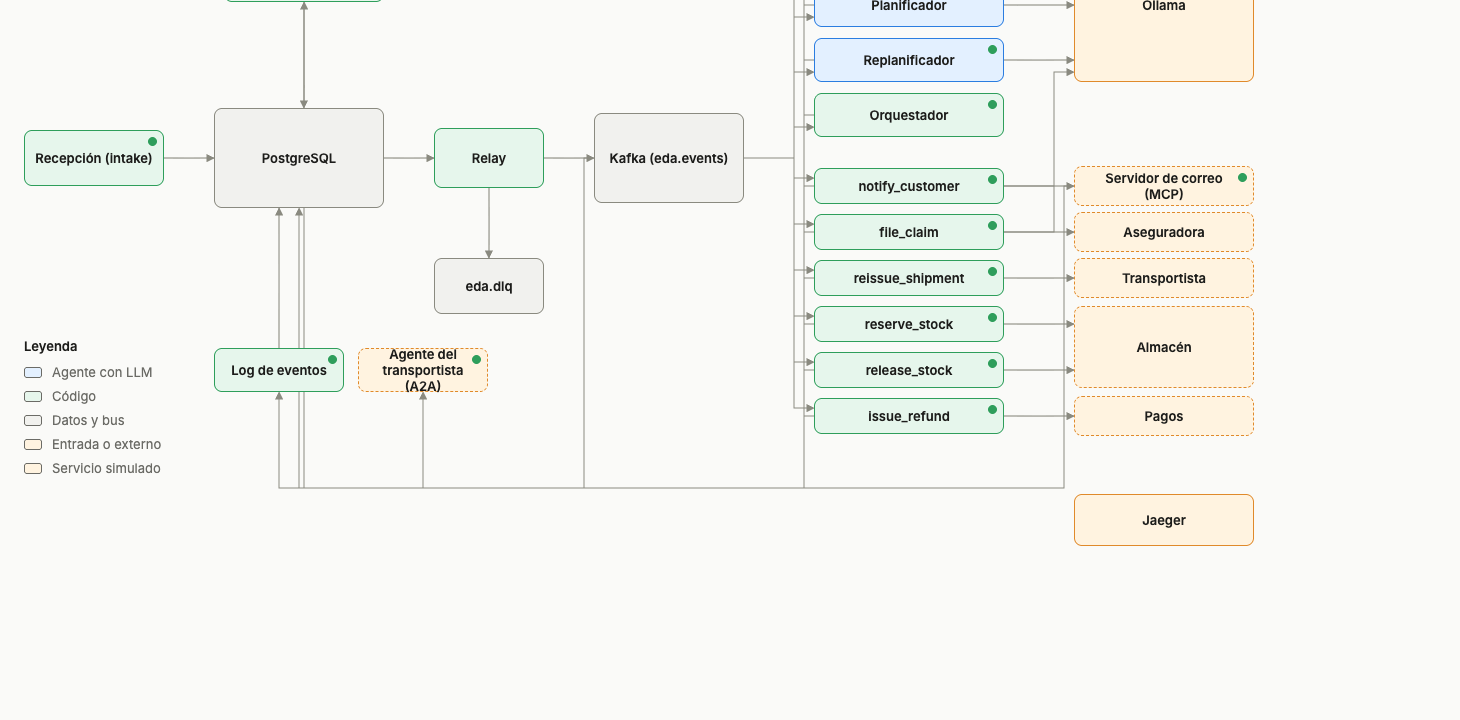
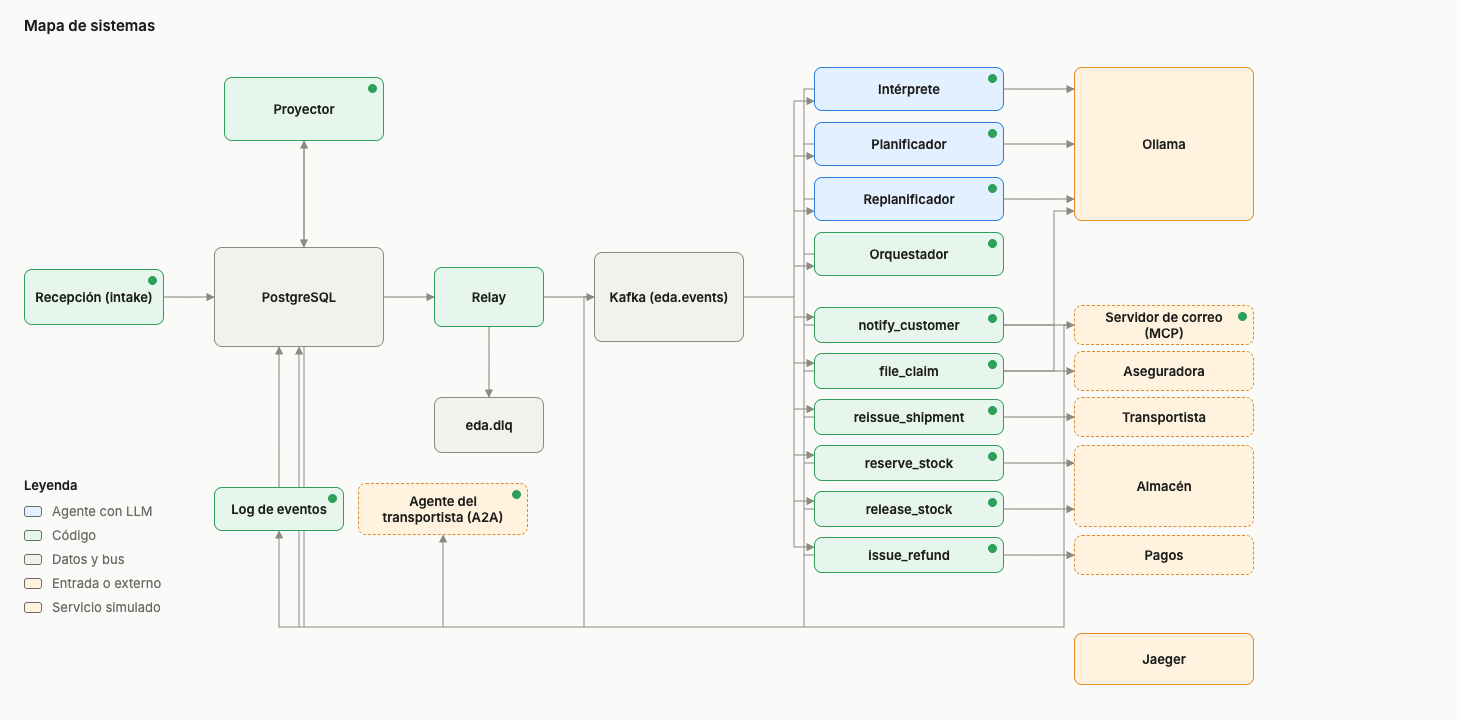
fix(web): fit the A2A carrier agent label inside its map node
The carrier agent had no position in the map layout and fell into a 130x44 fallback slot, where its label wrapped to three lines and overflowed. Give it its own 170x52 box and refresh the manual's v2 map screenshot.

diff --git a/web/src/mapLayout.test.ts b/web/src/mapLayout.test.ts
@@ -1,0 +1,18 @@
+import { describe, expect, it } from "vitest";
+import { layoutNodes, POSITIONS } from "./mapLayout";
+
+describe("layoutNodes", () => {
+  it("gives the A2A carrier agent its own box, tall and wide enough for a two-line label", () => {
+    const boxes = layoutNodes(["event_log", "carrier_agent"]);
+    const box = boxes.get("carrier_agent");
+    expect(box).toEqual(POSITIONS["carrier_agent"]);
+    expect(box!.w).toBeGreaterThanOrEqual(170);
+    expect(box!.h).toBeGreaterThanOrEqual(52);
+  });
+
+  it("keeps placing unknown nodes in the fallback area", () => {
+    const boxes = layoutNodes(["unknown_a", "unknown_b"]);
+    expect(boxes.get("unknown_a")).toEqual({ x: 190, y: 440, w: 130, h: 44 });
+    expect(boxes.get("unknown_b")).toEqual({ x: 334, y: 440, w: 130, h: 44 });
+  });
+});

diff --git a/web/src/mapLayout.ts b/web/src/mapLayout.ts
@@ -49,6 +49,9 @@ export const POSITIONS: Readonly<Record<string, Box>> = Object.fromEntries([
   service("warehouse", 398, 82),
   service("payments", 488),
   service("jaeger", 586, 52),
+  // Versión 2: agente del transportista (A2A), junto al log de eventos. Más ancho y alto que una casilla
+  // de reserva para que «Agente del transportista (A2A)» quepa en dos líneas sin salirse de la caja.
+  ["carrier_agent", { x: 334, y: 436, w: 170, h: 52 }],
 ]);
 
 // Zona libre (abajo, entre la leyenda y la línea común) para nodos que la tabla no conoce.
